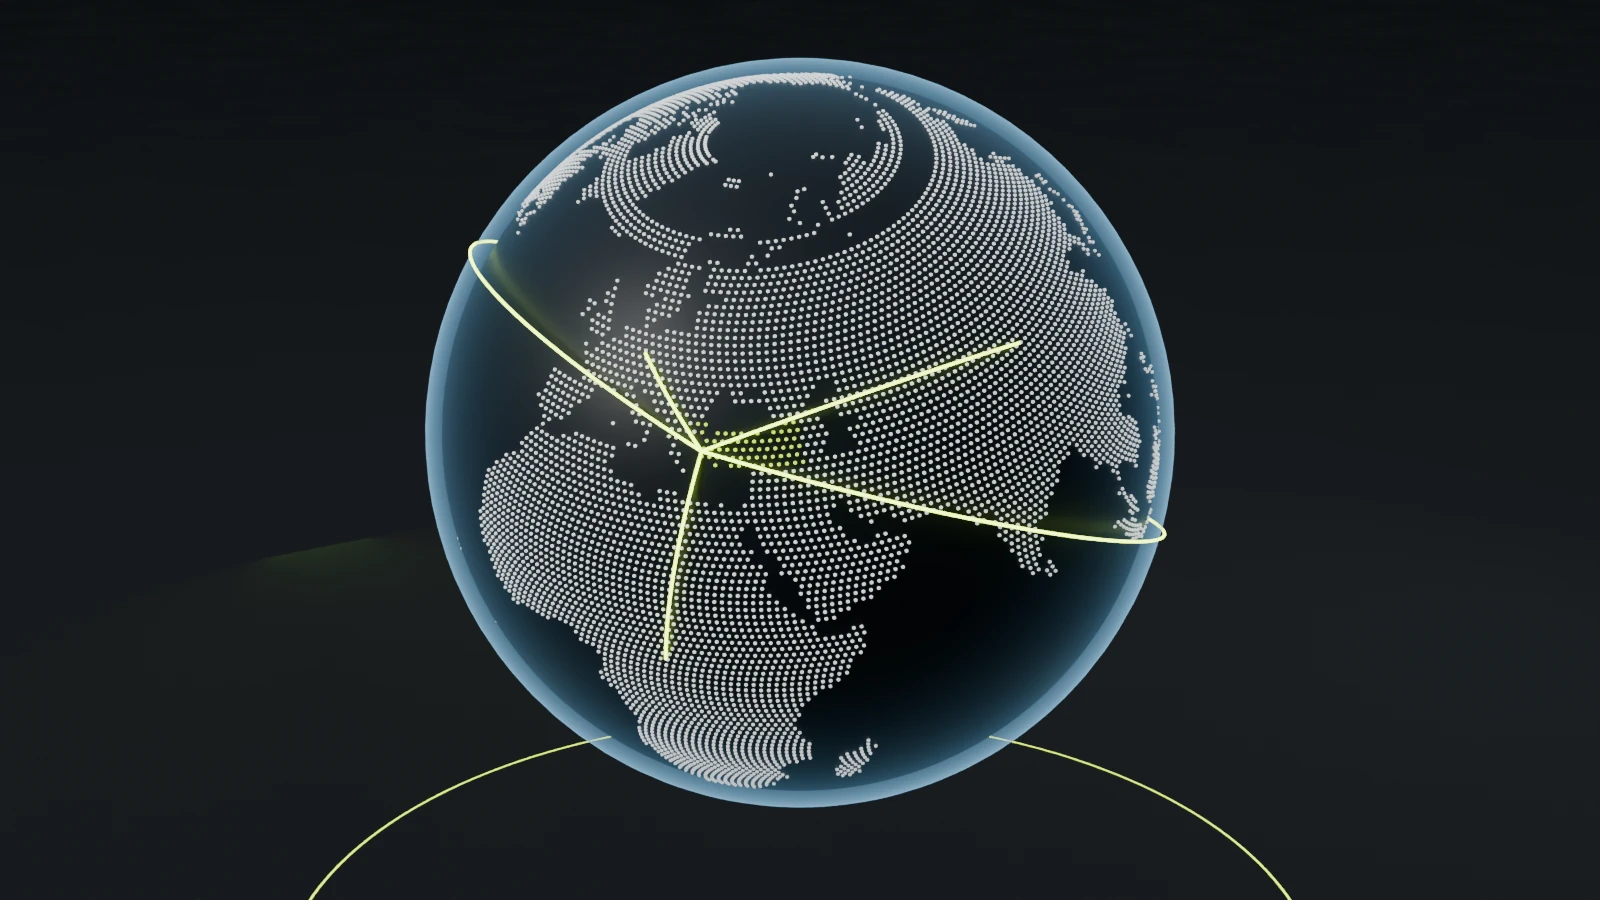
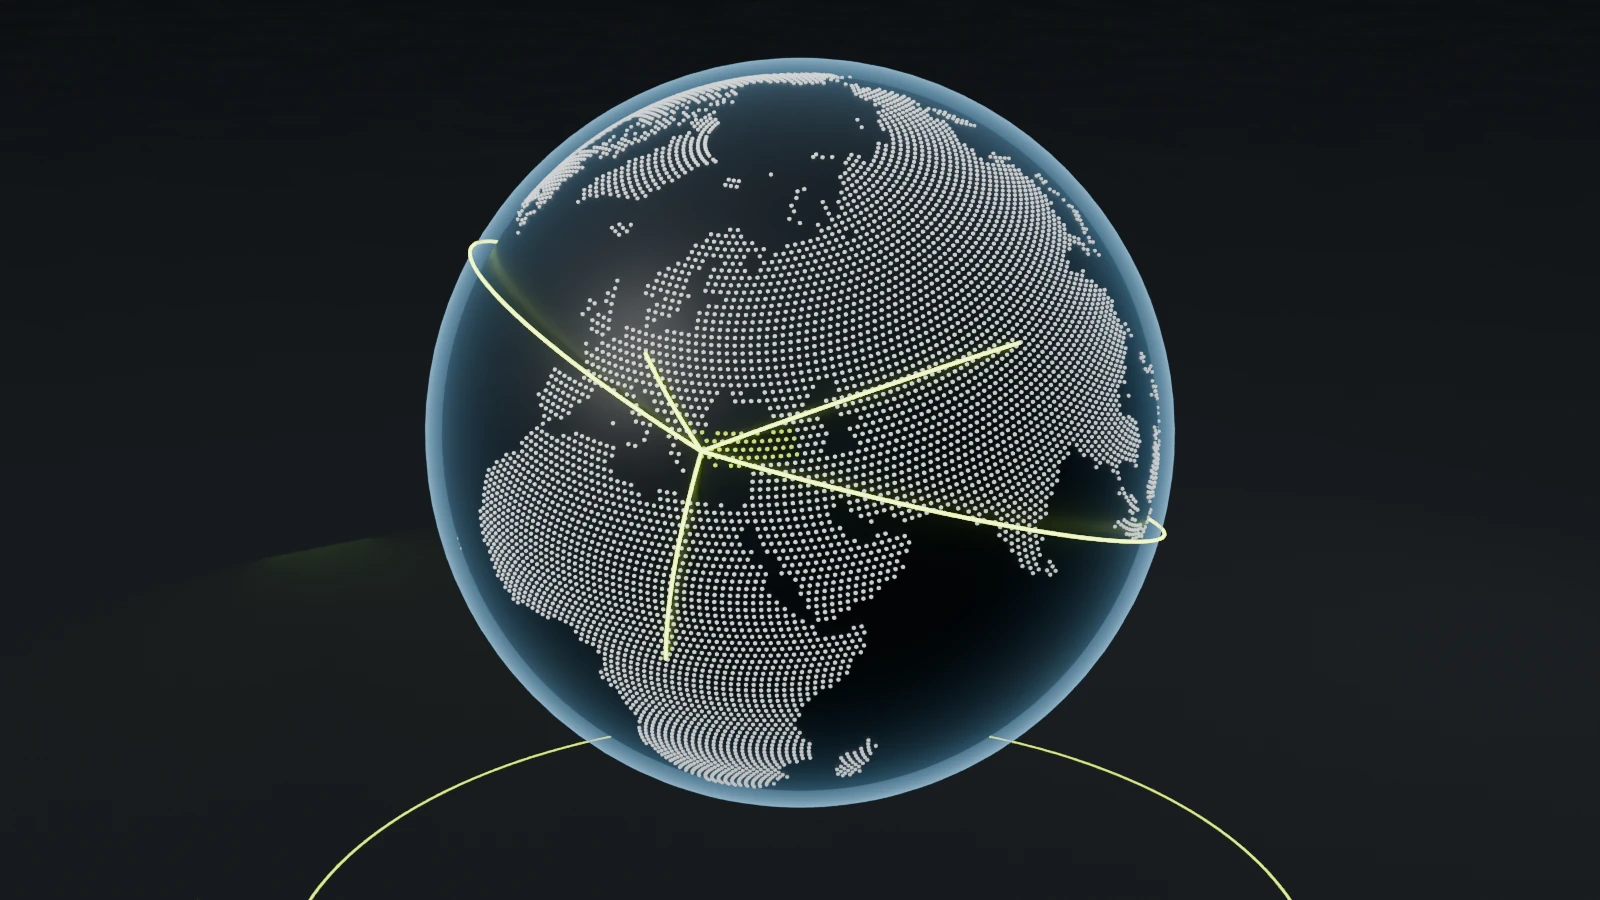
Kareler: masaüstü tüm sahneler kaba geçiş (sahne 4 yeni noktalarla), telefon sahne 0
Claude-Session: https://claude.ai/code/session_013Prs1q9vTvNrNBD2cSCBFS

diff --git a/giris-hikaye/assets/js/kareler-meta.js b/giris-hikaye/assets/js/kareler-meta.js
@@ -1,2 +1,2 @@
 /* Otomatik üretilir: tools/kareler.py — elle düzenlemeyin */
-window.EGE_KARELER={"s0":{"d":{"n":60,"res":[1600,900],"mevcut":[0,1,2,3,4,5,6,7,8,9,10,11,12,13,14,15,16,17,18,19,20,21,22,23,24,25,26,27,28,29,30,31,32,33,34,35,36,37,38,39,40,41,42,43,44,45,46,47,48,49,50,51,52,53,54,55,56,57,58,59],"face":{"0":[[0.0,0.1296],[1.0,0.1296],[1.0,0.8704],[0.0,0.8704]],"8":[[0.0063,0.1341],[0.9946,0.1337],[0.9946,0.8662],[0.0063,0.8658]],"16":[[0.0848,0.1893],[0.9302,0.1833],[0.9287,0.8154],[0.0862,0.808]],"24":[[0.1961,0.2644],[0.8394,0.2595],[0.8348,0.7531],[0.1999,0.7253]],"32":[[0.2664,0.3105],[0.7598,0.3379],[0.7532,0.7441],[0.2715,0.6678]],"40":[[0.2903,0.3305],[0.7087,0.4012],[0.7015,0.7602],[0.2966,0.642]],"48":[[0.2912,0.3353],[0.6989,0.4299],[0.6908,0.777],[0.2986,0.6376]],"56":[[0.29,0.3369],[0.7011,0.4338],[0.6926,0.7792],[0.2977,0.639]],"4":[[0.0,0.1296],[1.0,0.1296],[1.0,0.8704],[0.0,0.8704]],"12":[[0.0348,0.1543],[0.9709,0.1518],[0.9706,0.8476],[0.0351,0.8449]],"20":[[0.1428,0.229],[0.8834,0.221],[0.8803,0.7803],[0.1455,0.7651]],"28":[[0.2381,0.2916],[0.7993,0.2981],[0.7935,0.7412],[0.2427,0.6925]],"36":[[0.2826,0.3231],[0.7282,0.3736],[0.7213,0.7511],[0.2883,0.6514]],"44":[[0.2922,0.334],[0.7003,0.4197],[0.6926,0.7697],[0.2991,0.6381]],"52":[[0.2904,0.3363],[0.7,0.4336],[0.6915,0.7794],[0.298,0.6382]],"2":[[0.0,0.1296],[1.0,0.1296],[1.0,0.8704],[0.0,0.8704]],"6":[[0.0011,0.1305],[0.999,0.1304],[0.999,0.8696],[0.0011,0.8695]],"10":[[0.0173,0.142],[0.9854,0.1407],[0.9853,0.859],[0.0174,0.8577]],"14":[[0.0578,0.1705],[0.9521,0.1663],[0.9513,0.8326],[0.0586,0.828]],"18":[[0.1137,0.2092],[0.9068,0.2018],[0.9046,0.7975],[0.1158,0.7866]],"22":[[0.1706,0.2476],[0.8608,0.2403],[0.8569,0.7651],[0.1739,0.7444]],"26":[[0.2187,0.2791],[0.8191,0.2787],[0.8138,0.7449],[0.223,0.7079]],"30":[[0.254,0.3019],[0.7792,0.318],[0.7729,0.7419],[0.2589,0.679]],"34":[[0.2757,0.3175],[0.7426,0.3566],[0.7358,0.7472],[0.2812,0.6586]],"38":[[0.2873,0.3273],[0.7169,0.3886],[0.7099,0.7555],[0.2933,0.6459]],"42":[[0.2918,0.3326],[0.7033,0.4116],[0.6959,0.765],[0.2984,0.6394]],"46":[[0.2918,0.3347],[0.6991,0.4257],[0.6911,0.7739],[0.299,0.6375]],"50":[[0.2907,0.3358],[0.6993,0.4324],[0.691,0.7788],[0.2983,0.6378]],"54":[[0.2901,0.3367],[0.7006,0.4339],[0.6921,0.7794],[0.2978,0.6387]],"58":[[0.2899,0.337],[0.7014,0.4337],[0.6929,0.779],[0.2976,0.6392]],"1":[[0.0,0.1296],[1.0,0.1296],[1.0,0.8704],[0.0,0.8704]],"3":[[0.0,0.1296],[1.0,0.1296],[1.0,0.8704],[0.0,0.8704]],"5":[[0.0003,0.1298],[0.9998,0.1298],[0.9998,0.8702],[0.0003,0.8702]],"7":[[0.0031,0.1318],[0.9974,0.1316],[0.9974,0.8683],[0.0031,0.8681]],"9":[[0.011,0.1375],[0.9907,0.1367],[0.9906,0.8631],[0.011,0.8624]],"11":[[0.0253,0.1476],[0.9788,0.1458],[0.9786,0.8538],[0.0255,0.8519]],"13":[[0.0457,0.162],[0.962,0.1586],[0.9614,0.8405],[0.0462,0.8369]],"15":[[0.0709,0.1796],[0.9414,0.1745],[0.9403,0.8242],[0.072,0.8183]],"17":[[0.0991,0.1992],[0.9186,0.1924],[0.9168,0.8064],[0.1008,0.7974]],"19":[[0.1283,0.2192],[0.8951,0.2113],[0.8924,0.7887],[0.1307,0.7758]],"21":[[0.1569,0.2385],[0.8719,0.2306],[0.8685,0.7724],[0.16,0.7546]],"23":[[0.1837,0.2562],[0.8499,0.2499],[0.8457,0.7587],[0.1872,0.7346]],"25":[[0.2078,0.272],[0.8291,0.2691],[0.8242,0.7484],[0.2118,0.7164]],"27":[[0.2288,0.2856],[0.8092,0.2883],[0.8036,0.7424],[0.2333,0.7]],"29":[[0.2465,0.297],[0.7893,0.308],[0.7832,0.7412],[0.2513,0.6855]],"31":[[0.2606,0.3064],[0.7693,0.328],[0.7629,0.7429],[0.2656,0.6731]],"33":[[0.2714,0.3142],[0.7508,0.3474],[0.7442,0.7456],[0.2767,0.6629]],"35":[[0.2794,0.3205],[0.735,0.3654],[0.7282,0.7491],[0.285,0.6548]],"37":[[0.2852,0.3254],[0.7222,0.3814],[0.7152,0.7532],[0.291,0.6484]],"39":[[0.289,0.3291],[0.7125,0.3952],[0.7053,0.7578],[0.2952,0.6438]],"41":[[0.2912,0.3317],[0.7057,0.4067],[0.6984,0.7626],[0.2977,0.6405]],"43":[[0.2921,0.3334],[0.7015,0.416],[0.694,0.7674],[0.2989,0.6386]],"45":[[0.2921,0.3344],[0.6995,0.423],[0.6917,0.7719],[0.2991,0.6377]],"47":[[0.2915,0.335],[0.6989,0.428],[0.6909,0.7756],[0.2988,0.6375]],"49":[[0.291,0.3355],[0.6991,0.4313],[0.6908,0.7781],[0.2984,0.6377]],"51":[[0.2905,0.336],[0.6996,0.4332],[0.6912,0.7792],[0.2981,0.638]],"53":[[0.2903,0.3365],[0.7003,0.4339],[0.6918,0.7795],[0.2979,0.6385]],"55":[[0.29,0.3368],[0.7009,0.4339],[0.6924,0.7793],[0.2978,0.6389]],"57":[[0.2899,0.337],[0.7013,0.4337],[0.6928,0.7791],[0.2976,0.6391]],"59":[[0.2899,0.3371],[0.7014,0.4337],[0.6929,0.779],[0.2976,0.6392]]}}},"s1":{"d":{"n":96,"res":[1600,900],"mevcut":[0,4,8,12,16,20,24,28,32,33,36,40,44,48,52,56,60,64,68,72,76,80,84,88,92,95],"hotspots":{"33":{"kum":[0.0671,0.5073],"kirec":[0.3543,0.3922],"cimento":[0.6346,0.387],"alci":[0.9199,0.4885],"aluminyum":[0.4976,0.3192]},"20":{"kum":[0.1205,0.3991],"kirec":[0.394,0.3204],"cimento":[0.6661,0.3408],"alci":[0.9465,0.4733],"aluminyum":[0.5173,0.2589]},"24":{"kum":[0.1073,0.4659],"kirec":[0.3787,0.3791],"cimento":[0.6466,0.389],"alci":[0.9212,0.5019],"aluminyum":[0.506,0.3133]},"28":{"kum":[0.1013,0.4713],"kirec":[0.3751,0.381],"cimento":[0.645,0.389],"alci":[0.9214,0.5005],"aluminyum":[0.5047,0.3143]},"32":{"kum":[0.0741,0.4988],"kirec":[0.3586,0.3895],"cimento":[0.6369,0.3875],"alci":[0.9206,0.4914],"aluminyum":[0.499,0.318]},"36":{"kum":[0.0546,0.5248],"kirec":[0.3464,0.3978],"cimento":[0.6301,0.3861],"alci":[0.9178,0.4827],"aluminyum":[0.495,0.3215]},"40":{"kum":[0.0532,0.5247],"kirec":[0.3451,0.3958],"cimento":[0.6288,0.383],"alci":[0.9162,0.4787],"aluminyum":[0.4943,0.3191]},"68":{"kabarma":[0.5,0.4574]},"72":{"kabarma":[0.4985,0.4542]},"76":{"kabarma":[0.4945,0.4451]},"80":{"kesim":[0.6975,0.5105]},"84":{"kesim":[0.7031,0.5072]}}}},"s2":{"d":{"n":72,"res":[1600,900],"mevcut":[0,4,8,12,16,20,24,28,32,36,40,44,48,52,56,60,64,68,71],"hotspots":{"71":{"hucre":[0.3883,0.5253],"matris":[0.5606,0.1728]},"64":{"hucre":[0.4144,0.548],"matris":[0.5633,0.2026]},"68":{"hucre":[0.3925,0.5297],"matris":[0.5614,0.1775]}}}},"s3":{"d":{"n":96,"res":[1600,900],"mevcut":[0,4,8,12,16,20,24,28,32,36,40,44,48,52,56,60,64,68,72,76,80,84,88,92,95],"hotspots":{"95":{"duvar":[0.3075,0.7559],"lento":[0.4172,0.5189],"cati":[0.5327,0.1153]},"48":{"duvar":[0.3914,0.789]},"52":{"duvar":[0.3746,0.7831]},"56":{"duvar":[0.3605,0.7767]},"60":{"duvar":[0.3496,0.7712]},"64":{"duvar":[0.347,0.7725],"lento":[0.4635,0.5771]},"68":{"duvar":[0.3501,0.7616],"lento":[0.4544,0.6011]},"72":{"duvar":[0.3484,0.7509],"lento":[0.4464,0.6033]},"76":{"duvar":[0.3459,0.7439],"lento":[0.4399,0.6011],"cati":[0.5382,0.2324]},"80":{"duvar":[0.3444,0.7388],"lento":[0.4353,0.5994],"cati":[0.5345,0.2328]},"84":{"duvar":[0.3359,0.744],"lento":[0.4294,0.5843],"cati":[0.5329,0.2019]},"88":{"duvar":[0.3199,0.7531],"lento":[0.4221,0.5478],"cati":[0.5326,0.147]},"92":{"duvar":[0.31,0.7548],"lento":[0.4182,0.5228],"cati":[0.5325,0.1206]}}}},"s4":{"d":{"n":72,"res":[1600,900],"mevcut":[71],"hotspots":{"71":{"kaynak":[0.4381,0.5016],"kitalar":[0.2756,0.4582]}}}}};
+window.EGE_KARELER={"s0":{"d":{"n":60,"res":[1600,900],"mevcut":[0,1,2,3,4,5,6,7,8,9,10,11,12,13,14,15,16,17,18,19,20,21,22,23,24,25,26,27,28,29,30,31,32,33,34,35,36,37,38,39,40,41,42,43,44,45,46,47,48,49,50,51,52,53,54,55,56,57,58,59],"face":{"0":[[0.0,0.1296],[1.0,0.1296],[1.0,0.8704],[0.0,0.8704]],"8":[[0.0063,0.1341],[0.9946,0.1337],[0.9946,0.8662],[0.0063,0.8658]],"16":[[0.0848,0.1893],[0.9302,0.1833],[0.9287,0.8154],[0.0862,0.808]],"24":[[0.1961,0.2644],[0.8394,0.2595],[0.8348,0.7531],[0.1999,0.7253]],"32":[[0.2664,0.3105],[0.7598,0.3379],[0.7532,0.7441],[0.2715,0.6678]],"40":[[0.2903,0.3305],[0.7087,0.4012],[0.7015,0.7602],[0.2966,0.642]],"48":[[0.2912,0.3353],[0.6989,0.4299],[0.6908,0.777],[0.2986,0.6376]],"56":[[0.29,0.3369],[0.7011,0.4338],[0.6926,0.7792],[0.2977,0.639]],"4":[[0.0,0.1296],[1.0,0.1296],[1.0,0.8704],[0.0,0.8704]],"12":[[0.0348,0.1543],[0.9709,0.1518],[0.9706,0.8476],[0.0351,0.8449]],"20":[[0.1428,0.229],[0.8834,0.221],[0.8803,0.7803],[0.1455,0.7651]],"28":[[0.2381,0.2916],[0.7993,0.2981],[0.7935,0.7412],[0.2427,0.6925]],"36":[[0.2826,0.3231],[0.7282,0.3736],[0.7213,0.7511],[0.2883,0.6514]],"44":[[0.2922,0.334],[0.7003,0.4197],[0.6926,0.7697],[0.2991,0.6381]],"52":[[0.2904,0.3363],[0.7,0.4336],[0.6915,0.7794],[0.298,0.6382]],"2":[[0.0,0.1296],[1.0,0.1296],[1.0,0.8704],[0.0,0.8704]],"6":[[0.0011,0.1305],[0.999,0.1304],[0.999,0.8696],[0.0011,0.8695]],"10":[[0.0173,0.142],[0.9854,0.1407],[0.9853,0.859],[0.0174,0.8577]],"14":[[0.0578,0.1705],[0.9521,0.1663],[0.9513,0.8326],[0.0586,0.828]],"18":[[0.1137,0.2092],[0.9068,0.2018],[0.9046,0.7975],[0.1158,0.7866]],"22":[[0.1706,0.2476],[0.8608,0.2403],[0.8569,0.7651],[0.1739,0.7444]],"26":[[0.2187,0.2791],[0.8191,0.2787],[0.8138,0.7449],[0.223,0.7079]],"30":[[0.254,0.3019],[0.7792,0.318],[0.7729,0.7419],[0.2589,0.679]],"34":[[0.2757,0.3175],[0.7426,0.3566],[0.7358,0.7472],[0.2812,0.6586]],"38":[[0.2873,0.3273],[0.7169,0.3886],[0.7099,0.7555],[0.2933,0.6459]],"42":[[0.2918,0.3326],[0.7033,0.4116],[0.6959,0.765],[0.2984,0.6394]],"46":[[0.2918,0.3347],[0.6991,0.4257],[0.6911,0.7739],[0.299,0.6375]],"50":[[0.2907,0.3358],[0.6993,0.4324],[0.691,0.7788],[0.2983,0.6378]],"54":[[0.2901,0.3367],[0.7006,0.4339],[0.6921,0.7794],[0.2978,0.6387]],"58":[[0.2899,0.337],[0.7014,0.4337],[0.6929,0.779],[0.2976,0.6392]],"1":[[0.0,0.1296],[1.0,0.1296],[1.0,0.8704],[0.0,0.8704]],"3":[[0.0,0.1296],[1.0,0.1296],[1.0,0.8704],[0.0,0.8704]],"5":[[0.0003,0.1298],[0.9998,0.1298],[0.9998,0.8702],[0.0003,0.8702]],"7":[[0.0031,0.1318],[0.9974,0.1316],[0.9974,0.8683],[0.0031,0.8681]],"9":[[0.011,0.1375],[0.9907,0.1367],[0.9906,0.8631],[0.011,0.8624]],"11":[[0.0253,0.1476],[0.9788,0.1458],[0.9786,0.8538],[0.0255,0.8519]],"13":[[0.0457,0.162],[0.962,0.1586],[0.9614,0.8405],[0.0462,0.8369]],"15":[[0.0709,0.1796],[0.9414,0.1745],[0.9403,0.8242],[0.072,0.8183]],"17":[[0.0991,0.1992],[0.9186,0.1924],[0.9168,0.8064],[0.1008,0.7974]],"19":[[0.1283,0.2192],[0.8951,0.2113],[0.8924,0.7887],[0.1307,0.7758]],"21":[[0.1569,0.2385],[0.8719,0.2306],[0.8685,0.7724],[0.16,0.7546]],"23":[[0.1837,0.2562],[0.8499,0.2499],[0.8457,0.7587],[0.1872,0.7346]],"25":[[0.2078,0.272],[0.8291,0.2691],[0.8242,0.7484],[0.2118,0.7164]],"27":[[0.2288,0.2856],[0.8092,0.2883],[0.8036,0.7424],[0.2333,0.7]],"29":[[0.2465,0.297],[0.7893,0.308],[0.7832,0.7412],[0.2513,0.6855]],"31":[[0.2606,0.3064],[0.7693,0.328],[0.7629,0.7429],[0.2656,0.6731]],"33":[[0.2714,0.3142],[0.7508,0.3474],[0.7442,0.7456],[0.2767,0.6629]],"35":[[0.2794,0.3205],[0.735,0.3654],[0.7282,0.7491],[0.285,0.6548]],"37":[[0.2852,0.3254],[0.7222,0.3814],[0.7152,0.7532],[0.291,0.6484]],"39":[[0.289,0.3291],[0.7125,0.3952],[0.7053,0.7578],[0.2952,0.6438]],"41":[[0.2912,0.3317],[0.7057,0.4067],[0.6984,0.7626],[0.2977,0.6405]],"43":[[0.2921,0.3334],[0.7015,0.416],[0.694,0.7674],[0.2989,0.6386]],"45":[[0.2921,0.3344],[0.6995,0.423],[0.6917,0.7719],[0.2991,0.6377]],"47":[[0.2915,0.335],[0.6989,0.428],[0.6909,0.7756],[0.2988,0.6375]],"49":[[0.291,0.3355],[0.6991,0.4313],[0.6908,0.7781],[0.2984,0.6377]],"51":[[0.2905,0.336],[0.6996,0.4332],[0.6912,0.7792],[0.2981,0.638]],"53":[[0.2903,0.3365],[0.7003,0.4339],[0.6918,0.7795],[0.2979,0.6385]],"55":[[0.29,0.3368],[0.7009,0.4339],[0.6924,0.7793],[0.2978,0.6389]],"57":[[0.2899,0.337],[0.7013,0.4337],[0.6928,0.7791],[0.2976,0.6391]],"59":[[0.2899,0.3371],[0.7014,0.4337],[0.6929,0.779],[0.2976,0.6392]]}},"m":{"n":60,"res":[768,1366],"mevcut":[0,4,8,12,16,20,24,28,32,36,40,44,48,52,56,59],"face":{"0":[[0.0,0.3829],[1.0,0.3829],[1.0,0.6171],[0.0,0.6171]],"4":[[0.0,0.3829],[1.0,0.3829],[1.0,0.6171],[0.0,0.6171]],"8":[[0.0053,0.3841],[0.9956,0.3839],[0.9956,0.616],[0.0053,0.6159]],"12":[[0.0296,0.3894],[0.9761,0.3884],[0.9754,0.611],[0.0303,0.6099]],"16":[[0.0726,0.3988],[0.9426,0.3961],[0.9394,0.6022],[0.0756,0.599]],"20":[[0.1233,0.4096],[0.9036,0.4057],[0.8966,0.5924],[0.1295,0.5858]],"24":[[0.1706,0.4193],[0.8664,0.4163],[0.8554,0.5852],[0.1796,0.573]],"28":[[0.2078,0.4269],[0.8323,0.4283],[0.8177,0.5833],[0.219,0.5619]],"32":[[0.2325,0.4322],[0.7974,0.4425],[0.7801,0.5868],[0.2455,0.5531]],"36":[[0.2466,0.4361],[0.7674,0.4571],[0.7485,0.5912],[0.2613,0.5471]],"40":[[0.2529,0.4387],[0.7483,0.4692],[0.7282,0.5955],[0.2692,0.5436]],"44":[[0.2536,0.4402],[0.7403,0.4777],[0.7189,0.5994],[0.2716,0.5421]],"48":[[0.2517,0.4409],[0.7395,0.4825],[0.7167,0.6021],[0.271,0.5419]],"52":[[0.2504,0.4415],[0.7407,0.4843],[0.7172,0.6028],[0.2704,0.5422]],"56":[[0.2499,0.4418],[0.7419,0.4844],[0.7182,0.6026],[0.27,0.5425]],"59":[[0.2498,0.4419],[0.7422,0.4843],[0.7185,0.6025],[0.27,0.5426]]}}},"s1":{"d":{"n":96,"res":[1600,900],"mevcut":[0,4,8,12,16,20,24,28,32,33,36,40,44,48,52,56,60,64,68,72,76,80,84,88,92,95],"hotspots":{"33":{"kum":[0.0671,0.5073],"kirec":[0.3543,0.3922],"cimento":[0.6346,0.387],"alci":[0.9199,0.4885],"aluminyum":[0.4976,0.3192]},"20":{"kum":[0.1205,0.3991],"kirec":[0.394,0.3204],"cimento":[0.6661,0.3408],"alci":[0.9465,0.4733],"aluminyum":[0.5173,0.2589]},"24":{"kum":[0.1073,0.4659],"kirec":[0.3787,0.3791],"cimento":[0.6466,0.389],"alci":[0.9212,0.5019],"aluminyum":[0.506,0.3133]},"28":{"kum":[0.1013,0.4713],"kirec":[0.3751,0.381],"cimento":[0.645,0.389],"alci":[0.9214,0.5005],"aluminyum":[0.5047,0.3143]},"32":{"kum":[0.0741,0.4988],"kirec":[0.3586,0.3895],"cimento":[0.6369,0.3875],"alci":[0.9206,0.4914],"aluminyum":[0.499,0.318]},"36":{"kum":[0.0546,0.5248],"kirec":[0.3464,0.3978],"cimento":[0.6301,0.3861],"alci":[0.9178,0.4827],"aluminyum":[0.495,0.3215]},"40":{"kum":[0.0532,0.5247],"kirec":[0.3451,0.3958],"cimento":[0.6288,0.383],"alci":[0.9162,0.4787],"aluminyum":[0.4943,0.3191]},"68":{"kabarma":[0.5,0.4574]},"72":{"kabarma":[0.4985,0.4542]},"76":{"kabarma":[0.4945,0.4451]},"80":{"kesim":[0.6975,0.5105]},"84":{"kesim":[0.7031,0.5072]}}}},"s2":{"d":{"n":72,"res":[1600,900],"mevcut":[0,4,8,12,16,20,24,28,32,36,40,44,48,52,56,60,64,68,71],"hotspots":{"71":{"hucre":[0.3883,0.5253],"matris":[0.5606,0.1728]},"64":{"hucre":[0.4144,0.548],"matris":[0.5633,0.2026]},"68":{"hucre":[0.3925,0.5297],"matris":[0.5614,0.1775]}}}},"s3":{"d":{"n":96,"res":[1600,900],"mevcut":[0,4,8,12,16,20,24,28,32,36,40,44,48,52,56,60,64,68,72,76,80,84,88,92,95],"hotspots":{"95":{"duvar":[0.3075,0.7559],"lento":[0.4172,0.5189],"cati":[0.5327,0.1153]},"48":{"duvar":[0.3914,0.789]},"52":{"duvar":[0.3746,0.7831]},"56":{"duvar":[0.3605,0.7767]},"60":{"duvar":[0.3496,0.7712]},"64":{"duvar":[0.347,0.7725],"lento":[0.4635,0.5771]},"68":{"duvar":[0.3501,0.7616],"lento":[0.4544,0.6011]},"72":{"duvar":[0.3484,0.7509],"lento":[0.4464,0.6033]},"76":{"duvar":[0.3459,0.7439],"lento":[0.4399,0.6011],"cati":[0.5382,0.2324]},"80":{"duvar":[0.3444,0.7388],"lento":[0.4353,0.5994],"cati":[0.5345,0.2328]},"84":{"duvar":[0.3359,0.744],"lento":[0.4294,0.5843],"cati":[0.5329,0.2019]},"88":{"duvar":[0.3199,0.7531],"lento":[0.4221,0.5478],"cati":[0.5326,0.147]},"92":{"duvar":[0.31,0.7548],"lento":[0.4182,0.5228],"cati":[0.5325,0.1206]}}}},"s4":{"d":{"n":72,"res":[1600,900],"mevcut":[0,4,8,12,16,20,24,28,32,36,40,44,48,52,56,60,64,68,71],"hotspots":{"71":{"kaynak":[0.4381,0.5016],"kitalar":[0.2756,0.4582]},"12":{"kaynak":[0.549,0.6599]},"16":{"kaynak":[0.5412,0.6601]},"20":{"kaynak":[0.5299,0.6605]},"24":{"kaynak":[0.5155,0.6607]},"28":{"kaynak":[0.4985,0.6608]},"32":{"kaynak":[0.4798,0.6549]},"36":{"kaynak":[0.4602,0.6363]},"40":{"kaynak":[0.4407,0.6133]},"44":{"kaynak":[0.4249,0.588]},"48":{"kaynak":[0.4186,0.5602]},"52":{"kaynak":[0.4211,0.5366]},"56":{"kaynak":[0.4271,0.5204]},"60":{"kaynak":[0.4327,0.5105],"kitalar":[0.2502,0.4723]},"64":{"kaynak":[0.4364,0.5049],"kitalar":[0.268,0.4642]},"68":{"kaynak":[0.4379,0.5022],"kitalar":[0.2749,0.4595]}}}}};
